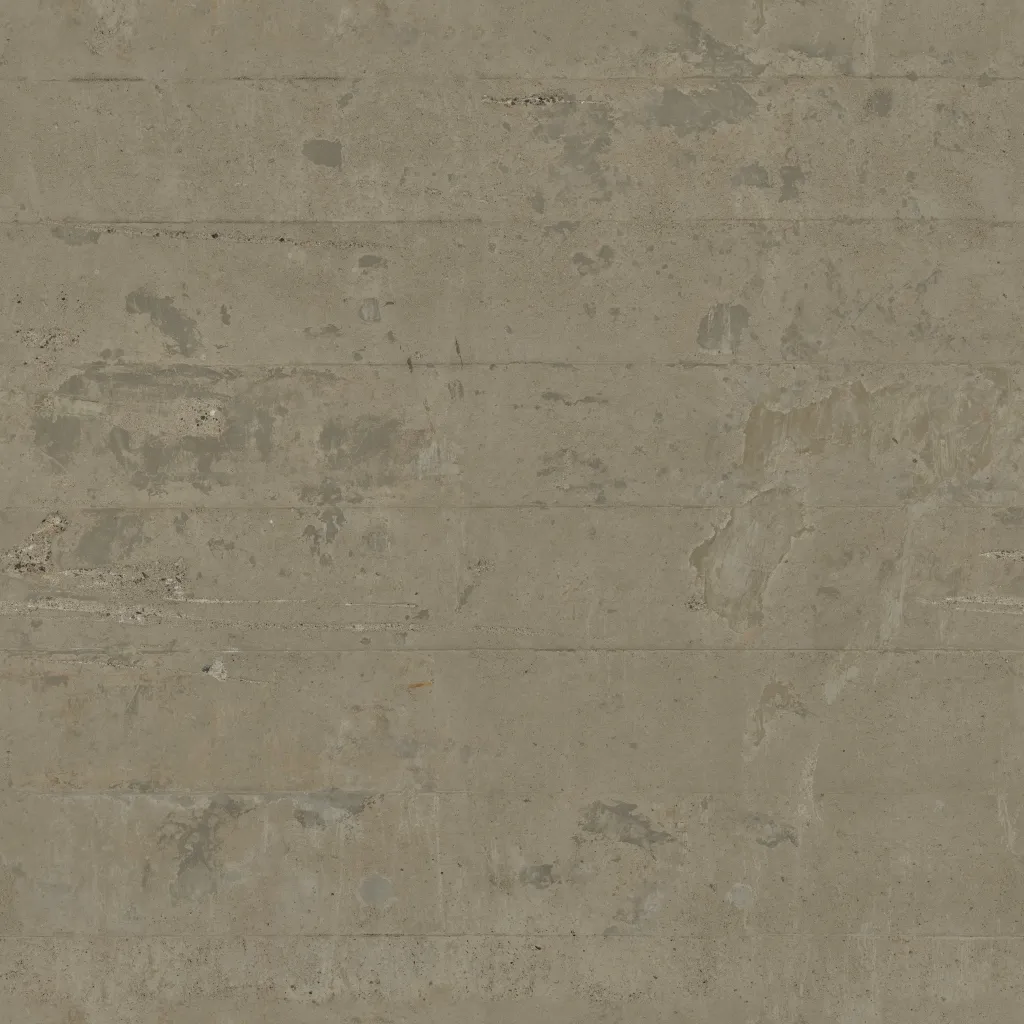
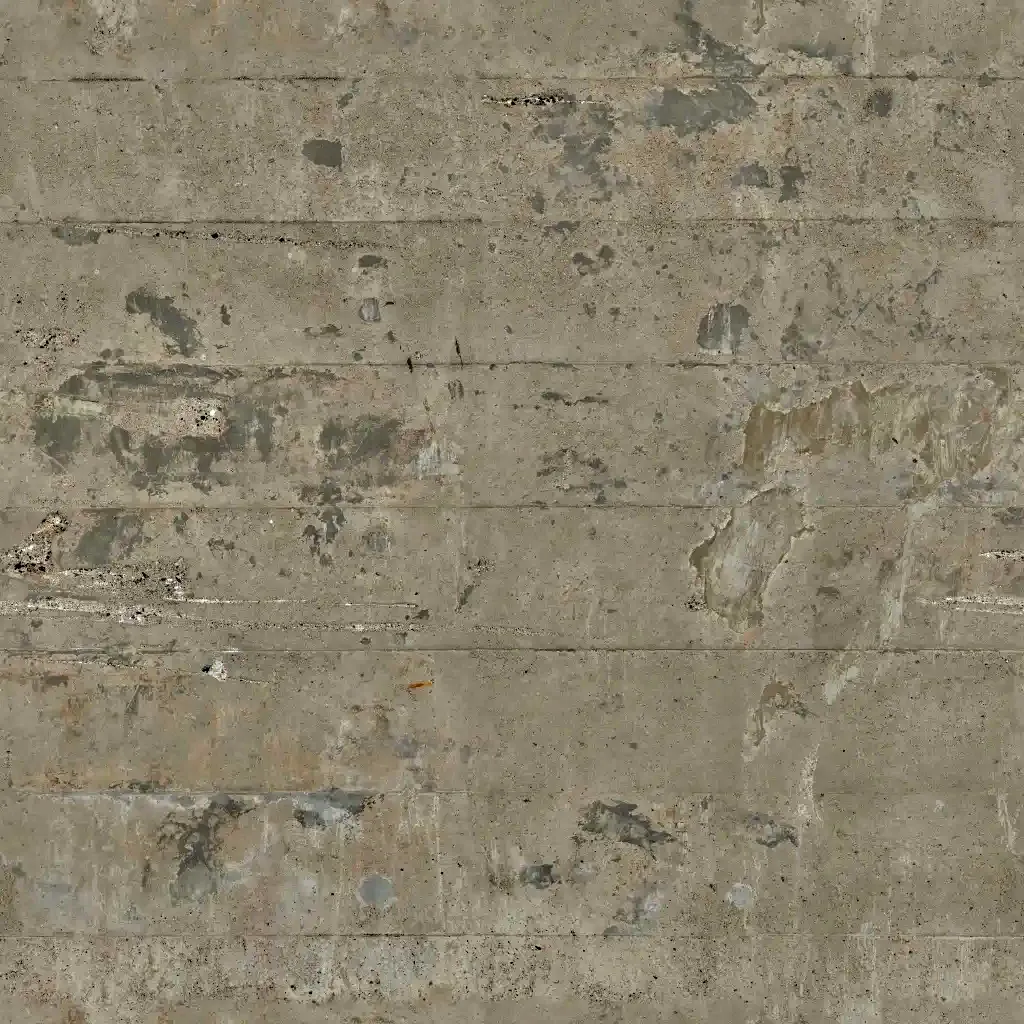
fix(assets): revive the dead facade textures behind the "lost texture" report
Người dùng báo cả thành phố mất vân nhà và vân mặt đường, chỉ còn biển hiệu
emissive sáng. Đo thẳng các file vân mặt đứng mà `createWorldFacadePBR` nạp
(độ lệch chuẩn độ xám ở 64×64, thang 0–255):

  q1/beige_wall_001-map.webp       0,20   ← một màu tuyệt đối (3,8 KB / 1024²)
  q1/clay_plaster-map.webp         1,75   ← gần phẳng
  q1/painted_plaster_wall-map.webp 2,93   ← ảnh thật, bẹt tương phản
  q1/concrete_wall_007-map.webp    3,44   ← ảnh thật, bẹt tương phản

`beige_wall_001` là `travertine` của 14 toà nhà (`addCommercialTower`) và
`stuccoColors[0]` cho mọi khối infill; `clay_plaster` là `warmLimestone` +
2 vật liệu Chợ Lớn. Nên toà "mất vân" không phải lỗi renderer: hai file đó
là ảnh một màu nằm sẵn trong `public/`.

- beige_wall_001, clay_plaster: dựng lại từ tấm vôi thật của map chuẩn
  (`drive-look/stucco-map.webp`), nhân từng kênh theo đúng tông trung bình
  của file cũ ⇒ beige vẫn be (175/166/150), clay vẫn nâu đất (115/90/65).
- concrete_wall_007, painted_plaster_wall: giữ nguyên chất liệu, chỉ kéo
  giãn tương phản riêng từng kênh quanh trung bình (tông không đổi tuyệt
  đối, đo lại 139/130/110 và 171/163/160 y như trước).
- facadeAssets.test.ts: chặn hồi quy. Test đo phương sai điểm ảnh, không
  đoán qua kích thước file (file `clay` tối màu nén còn 9,6 KB nhưng vẫn
  có vân thật — đây là bẫy của lần sửa đầu).
- cityLayer.ts: sửa chú thích sai hứa "khối PMREM bên dưới". `WebGLRenderer`
  chỉ gắn `scene.environment` cho `MeshStandardMaterial`, nên mọi
[…]

diff --git a/apps/game/src/features/citymap/facadeAssets.test.ts b/apps/game/src/features/citymap/facadeAssets.test.ts
@@ -1,0 +1,86 @@
+import { describe, expect, it } from "vitest";
+import { existsSync, readFileSync } from "node:fs";
+import path from "node:path";
+import sharp from "sharp";
+
+/**
+ * VÂN MẶT ĐỨNG — file phải có dữ liệu thật.
+ *
+ * Một tấm vân "chết" (một màu tuyệt đối) không ném lỗi, không rơi draw call, không làm test nào
+ * đỏ: nó chỉ làm mặt đứng ra phẳng, và triệu chứng duy nhất là *nhìn* mới thấy. Đó đúng là thứ đã
+ * xảy ra với `q1/beige_wall_001-map.webp` — 3,8 KB cho 1024², độ lệch chuẩn **0,33/255** — mà
+ * `createWorldFacadePBR` dùng làm `travertine` cho 14 toà nhà và mọi khối infill của map chuẩn.
+ * Cùng lúc `clay_plaster` (dùng cho `warmLimestone` + 2 vật liệu khác) chỉ có std 1,86.
+ *
+ * Cách đo: giải mã ảnh rồi lấy độ lệch chuẩn ở 64×64. Hạ độ phân giải trước khi đo là cố ý — nhiễu
+ * nén từng pixel không phải "vân"; thứ mắt nhìn thấy ở một ô vân 3 m là mảng sáng tối lớn. Ngưỡng
+ * 4,0/255 nằm giữa nhóm chết (0,3–1,9) và nhóm thật yếu nhất (2,9–5,1).
+ */
+const IMAGES = path.resolve(__dirname, "../../../public/assets/testbus/ow/images");
+/** Bỏ mức "nhiễu nén" ra khỏi phép đo: một màu + nhiễu vẫn là một màu. */
+const MIN_CONTRAST = 4.0;
+
+/** ID vân mặt đứng mà mã thật sự tham chiếu (qua `createWorldFacadePBR`). */
+const FACADE_IDS = [
+  "beige_wall_001",
+  "blue_plaster_weathered",
+  "brick_wall_04",
+  "clay_plaster",
+  "concrete_wall_007",
+  "grey_plaster_02",
+  "painted_plaster_wall",
+  "painted_worn_brick",
+];
+
+/** Độ lệch chuẩn độ xám ở 64×64 của một ảnh WebP. */
+async function contrast(file: string): Promise<{ mean: number; std: number }> {
+  const { data } = await sharp(file)
+    .greyscale()
+    .resize(64, 64, { fit: "fill" })
+    .raw()
+    .toBuffer({ resolveWithObject: true });
+  let sum = 0;
+  for (const v of data) sum += v;
+  const mean = sum / data.length;
+  let sq = 0;
+  for (const v of data) sq += (v - mean) ** 2;
+  return { mean, std: Math.sqrt(sq / data.length) };
+}
+
+describe("vân mặt đứng của map chuẩn", () => {
+  it("mọi ID mà mã tham chiếu đều có đủ map/normal/rough", () => {
+    for (const id of FACADE_IDS) {
+      for (const kind of ["map", "normal", "rough"]) {
+        const file = path.join(IMAGES, "q1", `${id}-${kind}.webp`);
+        expect(existsSync(file), `thiếu ${id}-${kind}.webp`).toBe(true);
+        // File rỗng/0 byte là kiểu hỏng khác nhưng cùng hậu quả: material không có vân.
+        expect(readFileSync(file).length, `${id}-${kind}.webp rỗng`).toBeGreaterThan(1024);
+      }
+    }
+  });
+
+  it("không tấm vân nào là một màu (bẫy đã làm toà 14 tầng mất vân)", async () => {
+    for (const id of FACADE_IDS) {
+      const { std } = await contrast(path.join(IMAGES, "q1", `${id}-map.webp`));
+      expect(std, `${id}-map.webp chỉ có std ${std.toFixed(2)}/255 — gần như một màu, không có vân`).toBeGreaterThan(
+        MIN_CONTRAST,
+      );
+    }
+  });
+
+  /**
+   * Bản thay thế phải giữ đúng chất liệu: `beige_wall_001` là đá vôi vàng nhạt (`travertine`
+   * của 14 toà), `clay_plaster` là đất nung nâu ấm. Bản vá đầu tiên dùng `tint()` của sharp và
+   * làm cả hai bạc thành xám trắng — bề mặt đúng là có vân nhưng sai vật liệu.
+   */
+  it("bản thay thế giữ đúng tông chất liệu", async () => {
+    const beige = await contrast(path.join(IMAGES, "q1", "beige_wall_001-map.webp"));
+    // Đá vôi: sáng (150–200) nhưng không cháy trắng.
+    expect(beige.mean).toBeGreaterThan(140);
+    expect(beige.mean).toBeLessThan(210);
+    const clay = await contrast(path.join(IMAGES, "q1", "clay_plaster-map.webp"));
+    // Đất nung: tối và ấm.
+    expect(clay.mean).toBeGreaterThan(60);
+    expect(clay.mean).toBeLessThan(140);
+  });
+});

diff --git a/apps/game/src/features/citymap/cityLayer.ts b/apps/game/src/features/citymap/cityLayer.ts
@@ -347,7 +347,12 @@ const addChunked = (
     //   MeshStandardMaterial({ map, roughnessMap, normalMap, normalScale .45, roughness .94 })
     // Khác biệt lớn nhất giữa hai ảnh người dùng gửi không phải màu mà là **độ bóng ướt**: mặt đường
     // map chuẩn có envMap nên phản chiếu trời, còn mặt đường /saigon trước đây là Lambert nên bết.
-    // Nay /saigon dùng đúng vật liệu đó + `scene.environment` (xem khối PMREM bên dưới).
+    // Nay /saigon dùng đúng vật liệu đó, và nó nhận `scene.environment` của `AtmosphereSystem` —
+    // **nhưng chỉ vì đây là `MeshStandardMaterial`**. Ba lần đọc sai đã xảy ra ở đúng dòng này nên
+    // ghi rõ: `WebGLRenderer` chỉ lấy `scene.environment` khi `material.isMeshStandardMaterial`
+    // (`WebGLRenderer.js` ~1658, `WebGLPrograms.js` ~53); mọi `MeshLambertMaterial` trong file này
+    // (mặt đứng, mái, hè, bó vỉa, cột đèn) **không** nhận IBL từ PMREM ba chế độ của engine. Không
+    // có khối PMREM nào ở đây và cũng không được thêm: trời/IBL là của engine (Single Engine).
     const roadMat: THREE.Material = tiledSurface(
       new THREE.MeshStandardMaterial({ color: "#d4d8dc", roughness: 0.94, metalness: 0.02, envMapIntensity: 0.9 }),
       12.8,
